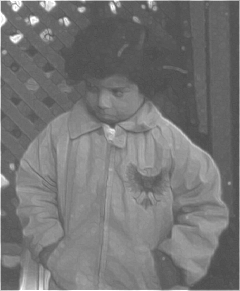
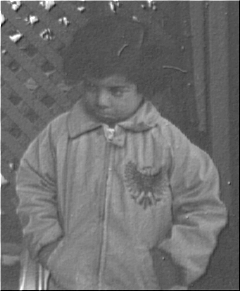
Derniere modif tp2

diff --git a/TP2/main.py b/TP2/main.py
@@ -173,10 +173,8 @@ if __name__ == '__main__':
         axes = plt.gca()
         axes.set_title("Image filtrée - " + nom_filtre)
 
-        if filtre != 5:
-            axes.imshow(img2, vmin = 0, vmax = 255, cmap='gray')
-        else:
-            axes.imshow(img2, cmap='gray')
+        axes.imshow(img2, vmin = 0, vmax = 255, cmap='gray')
+        #plt.imsave("img_filtree.png", img2, vmin = 0, vmax = 255, cmap='gray')
 
         # si sobel ou roberts, afficher imgX et imgY
         if filtre == 3 or filtre == 4:
